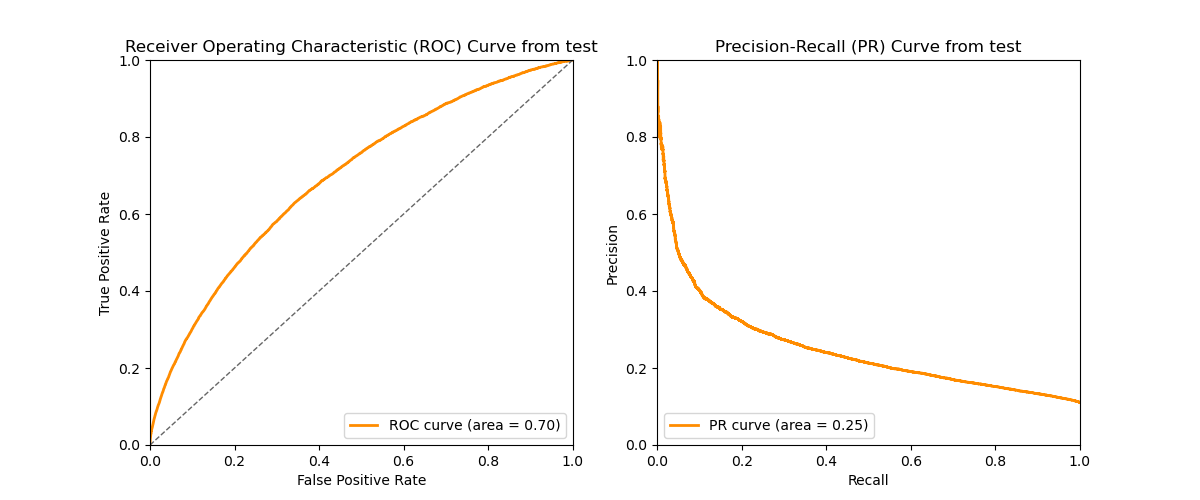
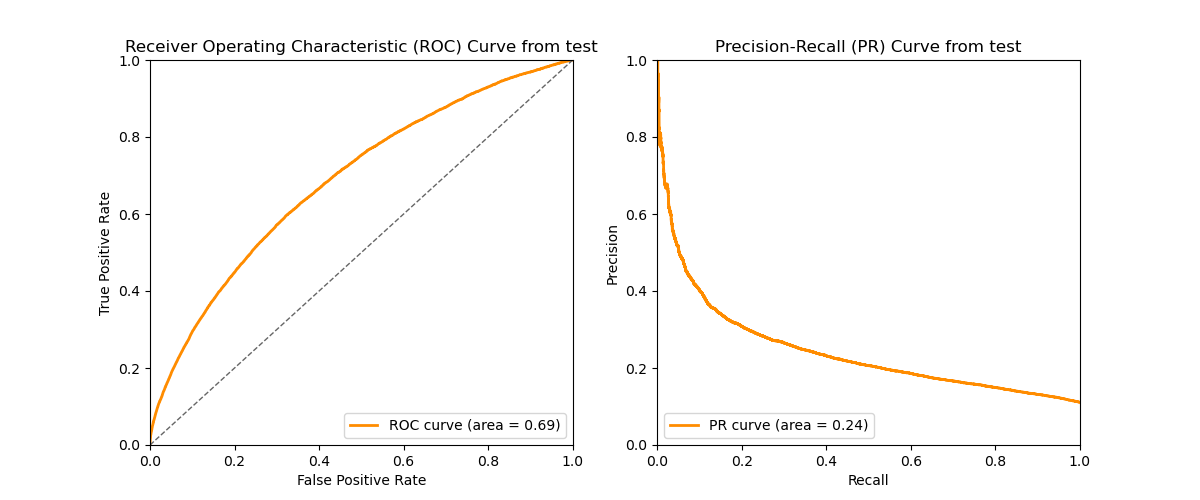
3060ti update

diff --git a/eval_all_models.py b/eval_all_models.py
@@ -9,8 +9,8 @@ import datetime
 import ehr_utils
 from sklearn.metrics import auc, average_precision_score, precision_recall_curve, roc_curve
 
-plt.rcParams["font.family"] = ['monospace']  # 设置字体族为衬线字体
-plt.rcParams["font.monospace"] = ['Consolas']  # 指定具体的衬线字体为 Consolas
+plt.rcParams['font.family'] = ['sans-serif'] # 设置字体为无衬线体
+plt.rcParams['font.sans-serif'] = 'Times New Roman' # 设置字体为Times New Roman
 plt.rcParams['axes.unicode_minus'] = False  # 解决保存图像是负号'-'显示为方块的问题
 
 
@@ -27,10 +27,8 @@ def plot_all_models_roc_pr(trained_models: List[Any], X_test: pd.DataFrame, Y_te
     fig, ax = plt.subplots(1, 2, figsize=(14, 6), dpi=300)
     # 颜色表
     C = ['#f98e62', '#d6eef4', '#f0c184', '#f6ebb1', '#929fc9', '#f8fbcb', '#ef8c67', '#8074ca', '#a5d954', '#b44763']
-    names = ["ADB", "DT", "GNB", "GB", "LGBM", "LDA", "LR", "MLP", "RF", "XGB"]
-    width = 4
-    # 使用 ljust() 对齐
-    names = [name.ljust(width) for name in names]
+    # 为了在图中对齐指标
+    names = ["ADB   ", "DT      ", "GNB   ", "GB      ", "LGBM", "LDA    ", "LR       ", "MLP    ", "RF       ", "XGB    "]
     # 遍历除xgb外每个模型，计算AUC和PRC，并绘制曲线
     for i, model in enumerate(trained_models[:-1]):
         # 预测概率
@@ -46,28 +44,30 @@ def plot_all_models_roc_pr(trained_models: List[Any], X_test: pd.DataFrame, Y_te
         precision, recall, _ = precision_recall_curve(Y_test, y_pred_prob)
         prc_score = average_precision_score(Y_test, y_pred_prob)
         # 绘制PRC曲线
-        name_width = 5
         ax[1].plot(recall, precision, label=f'{names[i]}({prc_score:.2f})', color=C[i], alpha=0.7, linewidth=1)
     #xgb单独拎出来plot
     y_pred_prob = trained_models[-1].predict_proba(X_test)[:, 1]
     fpr, tpr, _ = roc_curve(Y_test, y_pred_prob)
     auc_score = auc(fpr, tpr)
-    ax[0].plot(fpr, tpr, label=f'{names[-1]}({auc_score:.2f})', color=C[-1], alpha=0.9, linewidth=2)
-
     precision, recall, _ = precision_recall_curve(Y_test, y_pred_prob)
     prc_score = average_precision_score(Y_test, y_pred_prob)
+    ax[0].plot(fpr, tpr, label=f'{names[-1]}({auc_score:.2f})', color=C[-1], alpha=0.9, linewidth=2)
     ax[1].plot(recall, precision, label=f'{names[-1]}({prc_score:.2f})', color=C[-1], alpha=0.9, linewidth=2)
+    
+    fig.suptitle(f'ROC and PRC Curves for All Models', fontsize=16, fontweight='bold')
+    
+
     # 显示图表
     ax[0].set_ylim(0, 1)
     ax[0].set_xlim(0, 1)
-    ax[0].set_title('ROC Curves')
+    ax[0].set_title('ROC Curves of the Optimized Models(Mean)')
     ax[0].set_xlabel('False Positive Rate')
     ax[0].set_ylabel('True Positive Rate')
     ax[0].legend(loc='lower right')
 
     ax[1].set_ylim(0, 1)
     ax[1].set_xlim(0, 1)
-    ax[1].set_title('PRC Curves')
+    ax[1].set_title('PRC Curves of the Optimized Models(Mean)')
     ax[1].set_xlabel('Recall')
     ax[1].set_ylabel('Precision')
     ax[1].legend(loc='best')
@@ -111,10 +111,10 @@ if __name__ == '__main__':
     #使用什么数据  可选 mean drop  bayesian
     fill_methods = ['drop', 'mean', 'bayesian']
     #使用什么优化选项 可选 opt default
-    opt = 'opt'
+    opt = 'default'
     #是否重新计算结果
-    re_calculate = True
-    re_plot = False
+    re_calculate = False
+    re_plot = True
     # 评估所有模型
     for fill_method in fill_methods:
         # 评估trained_models_{默认or优化参数}/{控制填充方法}下的所有模型，将其保存到xlsx中的一个sheet中
